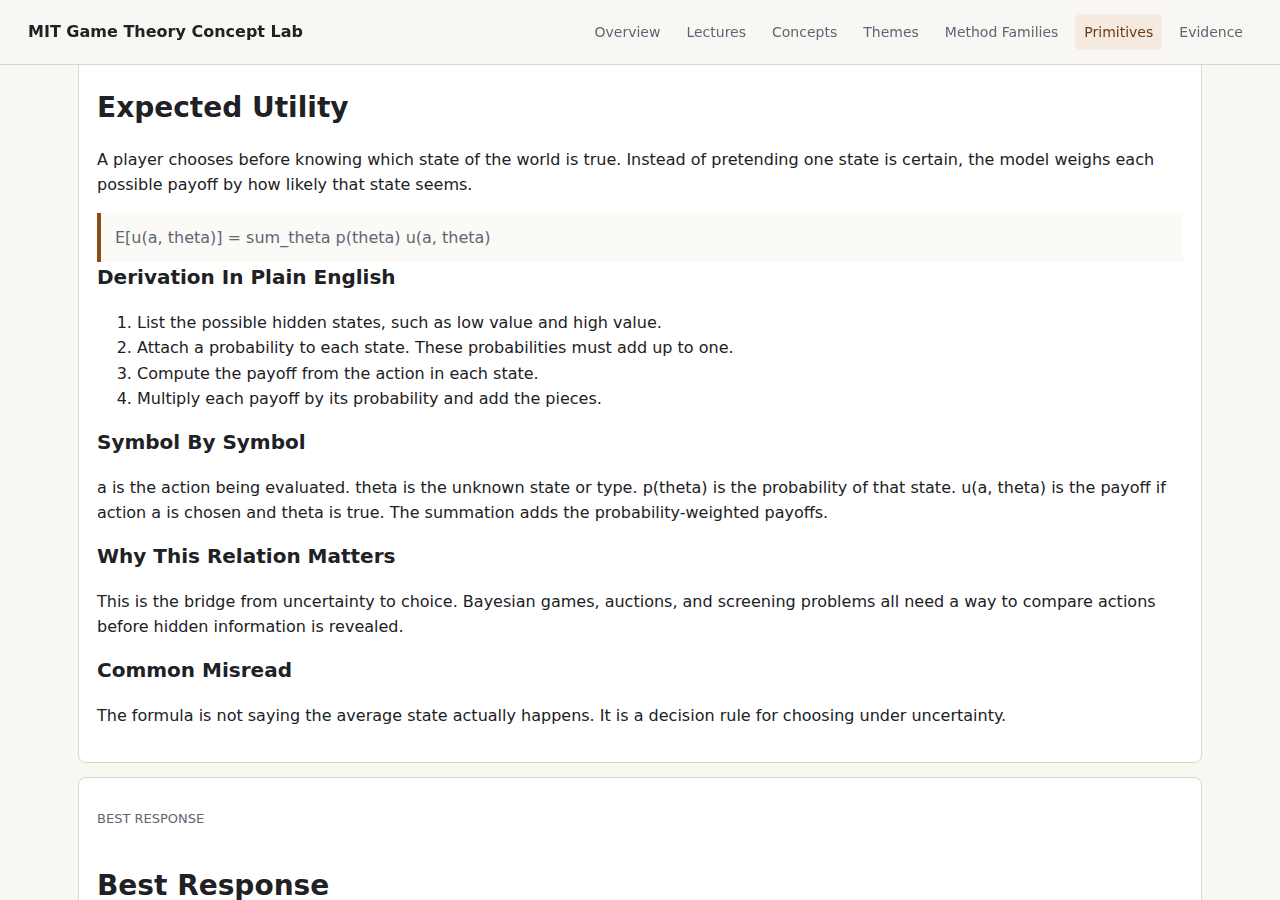
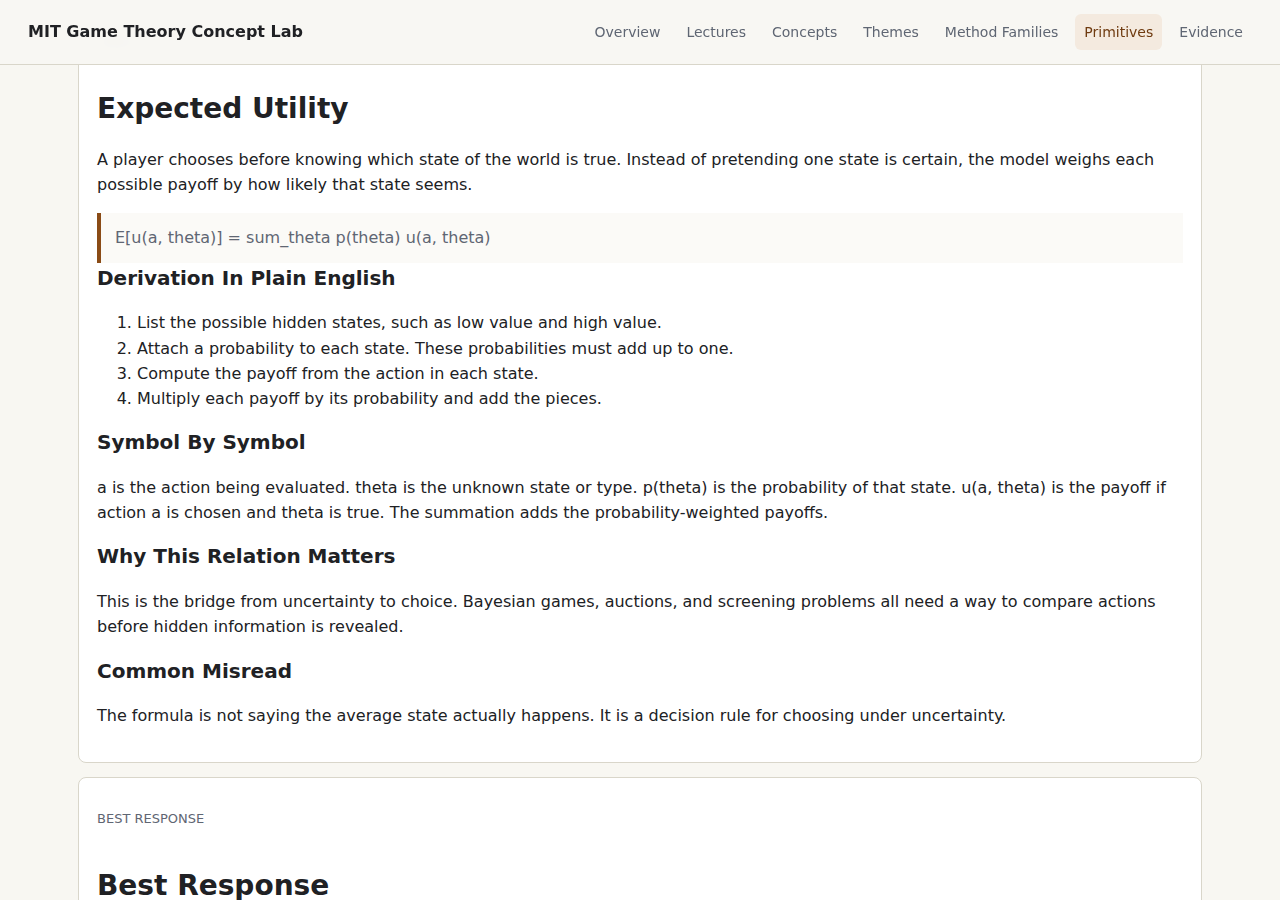
Link MIT primitives back to concepts

diff --git a/site/primitives.html b/site/primitives.html
@@ -21,6 +21,7 @@
   <h3>Plain-Language Principle</h3><p>Preference is the course’s way of saying that a person can compare outcomes before any strategic machinery starts. The primitive matters because a game cannot explain choice unless there is some stable sense in which one outcome is better for that player than another.</p>
   <h3>Symbol By Symbol</h3><p>x and y are possible outcomes; u assigns each outcome a number; the larger number records the option the person ranks higher.</p>
   <h3>Where It Appears</h3><p>Preferences appear first in the opening choice lecture, then reappear whenever payoffs, utilities, outside options, bidder values, or expected utilities are used as inputs to strategic reasoning.</p>
+  <h3>Concept Pages Using This Primitive</h3><p class="chips"><a class="chip" href="concepts/preferences.html">Preferences</a><a class="chip" href="concepts/utility.html">Utility</a><a class="chip" href="concepts/expected_utility.html">Expected Utility</a></p>
   <h3>Why Misuse Breaks The Model</h3><p>The common misuse is treating the utility representation as a literal psychological ruler. In this course, different numerical representations can describe the same ordering unless uncertainty or expected utility requires stronger comparisons.</p>
 </article><article class="wide-card" id="payoff_mapping">
   <h2>Payoff Mapping</h2>
@@ -32,6 +33,7 @@
   <h3>Plain-Language Principle</h3><p>Payoff mapping says that one person’s result is produced by the whole situation, not by that person’s action alone. A game table or tree is a compact machine that turns everyone’s choices into each player’s consequence.</p>
   <h3>Symbol By Symbol</h3><p>i is one player; a_i is that player&#x27;s action; a_-i means everyone else&#x27;s actions; u_i is the payoff assigned to the whole action profile.</p>
   <h3>Where It Appears</h3><p>Payoff mapping appears in strategic-form games, extensive-form games, bargaining, ad auctions, and any lecture that asks whether a deviation changes a player’s payoff.</p>
+  <h3>Concept Pages Using This Primitive</h3><p class="chips"><a class="chip" href="concepts/strategic_form_games.html">Strategic Form Games</a><a class="chip" href="concepts/bargaining.html">Bargaining</a><a class="chip" href="concepts/imperfect_competition.html">Imperfect Competition</a><a class="chip" href="concepts/ad_auctions.html">Ad Auctions</a></p>
   <h3>Why Misuse Breaks The Model</h3><p>A payoff map can smuggle in the conclusion if the modeler omits costs, outside options, information, or future consequences. The table is only as honest as the situation it represents.</p>
 </article><article class="wide-card" id="best_response">
   <h2>Best Response</h2>
@@ -43,6 +45,7 @@
   <h3>Plain-Language Principle</h3><p>Best response is the one-player optimization step inside game theory, but in everyday words it means: given what I think the others are doing, what should I do?</p>
   <h3>Symbol By Symbol</h3><p>argmax means choose the action a that makes player i&#x27;s payoff as large as possible when others choose a_-i.</p>
   <h3>Where It Appears</h3><p>Best response appears in rationalizability, Nash equilibrium, mixed strategies, minimax reasoning, Bayesian Nash equilibrium, and the deviation checks behind dynamic concepts.</p>
+  <h3>Concept Pages Using This Primitive</h3><p class="chips"><a class="chip" href="concepts/best_response.html">Best Response</a><a class="chip" href="concepts/minimax.html">Minimax</a><a class="chip" href="concepts/imperfect_competition.html">Imperfect Competition</a></p>
   <h3>Why Misuse Breaks The Model</h3><p>The misuse is naming a best response without naming the belief, opponent action, or information condition. That hides the actual assumption doing the work.</p>
 </article><article class="wide-card" id="mutual_consistency">
   <h2>Mutual Consistency</h2>
@@ -54,6 +57,7 @@
   <h3>Plain-Language Principle</h3><p>Mutual consistency turns a collection of individual choices into a stable strategic prediction. Everyone’s plan has to make sense given everyone else’s plan.</p>
   <h3>Symbol By Symbol</h3><p>For each player i, their chosen action a_i must belong to the set of best responses against the other players&#x27; actions.</p>
   <h3>Where It Appears</h3><p>Mutual consistency appears in Nash equilibrium, mixed strategies, zero-sum games, subgame perfection, infinitely repeated games, folk theorem logic, and Bayesian Nash equilibrium.</p>
+  <h3>Concept Pages Using This Primitive</h3><p class="chips"><a class="chip" href="concepts/nash_equilibrium.html">Nash Equilibrium</a><a class="chip" href="concepts/mixed_strategies.html">Mixed Strategies</a><a class="chip" href="concepts/zero_sum_games.html">Zero-Sum Games</a><a class="chip" href="concepts/subgame_perfection.html">Subgame-Perfect Nash Equilibrium</a><a class="chip" href="concepts/folk_theorem.html">Folk Theorem</a><a class="chip" href="concepts/bayesian_nash_equilibrium.html">Bayesian Nash Equilibrium</a></p>
   <h3>Why Misuse Breaks The Model</h3><p>The misuse is reading equilibrium as good, fair, optimal for society, or morally desirable. It only says that unilateral deviation is not profitable under the modeled conditions.</p>
 </article><article class="wide-card" id="pruning">
   <h2>Pruning</h2>
@@ -65,6 +69,7 @@
   <h3>Plain-Language Principle</h3><p>Pruning removes actions that cannot be justified before solving the whole game. It is the mathematical version of clearing away choices that are never worth taking.</p>
   <h3>Symbol By Symbol</h3><p>The inequality checks every possible action by others; dominance means one strategy is never worse and sometimes better.</p>
   <h3>Where It Appears</h3><p>Pruning appears in dominance, iterated deletion, rationalizability, and as background for equilibrium reasoning because eliminated strategies cannot be serious best responses.</p>
+  <h3>Concept Pages Using This Primitive</h3><p class="chips"><a class="chip" href="concepts/dominance.html">Dominance</a><a class="chip" href="concepts/iterated_deletion.html">Iterated Deletion</a></p>
   <h3>Why Misuse Breaks The Model</h3><p>The misuse is deleting too aggressively, especially with weak dominance or when beliefs matter. A deletion rule can change the remaining game, so the strength and order of the rule must be explicit.</p>
 </article><article class="wide-card" id="backward_recursion">
   <h2>Backward Recursion</h2>
@@ -76,6 +81,7 @@
   <h3>Plain-Language Principle</h3><p>Backward recursion says that later incentives determine earlier meaning. To understand a promise or threat now, solve what the player will want when the promised moment arrives.</p>
   <h3>Symbol By Symbol</h3><p>V is continuation value; at each decision point the player chooses the next branch with the best continuation value.</p>
   <h3>Where It Appears</h3><p>Backward recursion appears in extensive-form games, backward induction, subgame perfection, one-shot deviation, bargaining, finitely repeated games, and perfect Bayesian equilibrium.</p>
+  <h3>Concept Pages Using This Primitive</h3><p class="chips"><a class="chip" href="concepts/extensive_form_games.html">Extensive Form Games</a><a class="chip" href="concepts/backward_induction.html">Backward Induction</a><a class="chip" href="concepts/subgame_perfection.html">Subgame-Perfect Nash Equilibrium</a><a class="chip" href="concepts/one_shot_deviation.html">One-Shot Deviation Principle</a><a class="chip" href="concepts/finitely_repeated_games.html">Finitely Repeated Games</a><a class="chip" href="concepts/perfect_bayesian_equilibrium.html">Perfect Bayesian Equilibrium</a></p>
   <h3>Why Misuse Breaks The Model</h3><p>The misuse is solving backward through a tree that leaves out information, uncertainty, or renegotiation. Backward logic is powerful only after the tree is an honest representation.</p>
 </article><article class="wide-card" id="discounting">
   <h2>Discounting</h2>
@@ -87,6 +93,7 @@
   <h3>Plain-Language Principle</h3><p>Discounting is the course’s way to compare now with later. Future payoffs matter, but the discount factor says how much weight the future has relative to the present.</p>
   <h3>Symbol By Symbol</h3><p>u_t is payoff in period t; delta between 0 and 1 controls how strongly the future matters.</p>
   <h3>Where It Appears</h3><p>Discounting appears in bargaining, infinitely repeated games, folk theorem arguments, implicit cartels, and the repeated-game parts of cooperation.</p>
+  <h3>Concept Pages Using This Primitive</h3><p class="chips"><a class="chip" href="concepts/bargaining.html">Bargaining</a><a class="chip" href="concepts/infinitely_repeated_games.html">Infinitely Repeated Games</a><a class="chip" href="concepts/folk_theorem.html">Folk Theorem</a><a class="chip" href="concepts/implicit_cartels.html">Implicit Cartels</a></p>
   <h3>Why Misuse Breaks The Model</h3><p>The misuse is treating future discipline as automatic. If players are impatient, cannot observe cheating, or know the game ends, the discounting inequality can fail.</p>
 </article><article class="wide-card" id="belief">
   <h2>Belief</h2>
@@ -98,6 +105,7 @@
   <h3>Plain-Language Principle</h3><p>Belief is a probability story about hidden facts. It lets a player choose while admitting that they do not know the opponent’s type, value, history, or information.</p>
   <h3>Symbol By Symbol</h3><p>theta is the unknown type or state; p(theta) is its probability; expected utility averages payoffs across possibilities.</p>
   <h3>Where It Appears</h3><p>Belief appears in expected utility, rationalizability, mixed strategies, Bayesian games, types and beliefs, Bayesian Nash equilibrium, auctions, PBE, signaling, and cheap talk.</p>
+  <h3>Concept Pages Using This Primitive</h3><p class="chips"><a class="chip" href="concepts/expected_utility.html">Expected Utility</a><a class="chip" href="concepts/rationalizability.html">Rationalizability</a><a class="chip" href="concepts/mixed_strategies.html">Mixed Strategies</a><a class="chip" href="concepts/bayesian_games.html">Bayesian Games</a><a class="chip" href="concepts/types_and_beliefs.html">Types And Beliefs</a><a class="chip" href="concepts/bayesian_nash_equilibrium.html">Bayesian Nash Equilibrium</a><a class="chip" href="concepts/screening_and_adverse_selection.html">Screening And Adverse Selection</a><a class="chip" href="concepts/auctions.html">Auctions</a><a class="chip" href="concepts/perfect_bayesian_equilibrium.html">Perfect Bayesian Equilibrium</a><a class="chip" href="concepts/signaling.html">Signaling</a><a class="chip" href="concepts/cheap_talk.html">Cheap Talk</a></p>
   <h3>Why Misuse Breaks The Model</h3><p>The misuse is using beliefs as arbitrary story glue. In dynamic games especially, beliefs must be tied to information, Bayes rule where possible, and the incentives that produced observed behavior.</p>
 </article><article class="wide-card" id="incentive_compatibility">
   <h2>Incentive Compatibility</h2>
@@ -109,6 +117,7 @@
   <h3>Plain-Language Principle</h3><p>Incentive compatibility asks whether the rule makes desired behavior privately worthwhile. A mechanism cannot simply request honesty, cooperation, or truthful bidding; it must make those actions attractive.</p>
   <h3>Symbol By Symbol</h3><p>The inequality says a person should not gain by replacing the truthful action with another report.</p>
   <h3>Where It Appears</h3><p>Incentive compatibility appears in implicit cartels, auctions, revenue equivalence, ad auctions, signaling, and cheap talk, with related logic in folk-theorem punishment constraints.</p>
+  <h3>Concept Pages Using This Primitive</h3><p class="chips"><a class="chip" href="concepts/implicit_cartels.html">Implicit Cartels</a><a class="chip" href="concepts/screening_and_adverse_selection.html">Screening And Adverse Selection</a><a class="chip" href="concepts/auctions.html">Auctions</a><a class="chip" href="concepts/revenue_equivalence.html">Revenue Equivalence</a><a class="chip" href="concepts/ad_auctions.html">Ad Auctions</a><a class="chip" href="concepts/signaling.html">Signaling</a><a class="chip" href="concepts/cheap_talk.html">Cheap Talk</a></p>
   <h3>Why Misuse Breaks The Model</h3><p>The misuse is designing by intention rather than incentives. If misreporting, deviation, or manipulation pays more, the mechanism fails no matter how elegant the rule looks.</p>
 </article><article class="wide-card" id="knowledge_recursion">
   <h2>Knowledge Recursion</h2>
@@ -120,6 +129,7 @@
   <h3>Plain-Language Principle</h3><p>Knowledge recursion captures the difference between a fact being true, people knowing it, and people knowing that others know it. Coordination often needs the higher levels, not just the first one.</p>
   <h3>Symbol By Symbol</h3><p>E is the event; K means known by the players; repeated K&#x27;s represent higher-order knowledge.</p>
   <h3>Where It Appears</h3><p>Knowledge recursion appears most directly in common knowledge, and indirectly in iterated deletion, rationalizability, equilibrium selection, and communication because players reason about others’ reasoning.</p>
+  <h3>Concept Pages Using This Primitive</h3><p class="chips"><a class="chip" href="concepts/common_knowledge.html">Common Knowledge</a></p>
   <h3>Why Misuse Breaks The Model</h3><p>The misuse is treating widespread knowledge as common knowledge. If players are unsure whether others saw the same fact, the recursive chain can break and coordination may fail.</p>
 </article><section class="page-head"><h1>Derivation Cards</h1><p>Core equations unpacked as plain-language operations.</p></section><article class="wide-card derivation-card" id="dominance_inequality">
   <p class="eyebrow">pruning</p>

diff --git a/scripts/audit_editorial_quality.py b/scripts/audit_editorial_quality.py
@@ -176,6 +176,17 @@ def main() -> int:
     theme_words = [words(" ".join(str(t.get(f, "")) for f in ["big_picture", "why_this_theme_matters", "cross_course_argument", "mathematical_spine", "where_analogy_breaks", "lecture_evidence_chain"])) for t in themes]
     subtheme_words = [words(" ".join(str(s.get(f, "")) for f in ["everyday_problem", "hidden_principle", "mathematical_lever", "why_it_matters", "first_principles_walkthrough", "cross_links_and_limits"])) for s in subthemes]
     primitive_words = [words(" ".join(str(p.get(f, "")) for f in ["everyday_setup", "plain_language_principle", "formal_object", "symbol_explanation", "course_appearances", "why_it_matters", "misuse_warning"])) for p in primitives]
+    primitives_html = (SITE / "primitives.html").read_text(encoding="utf-8") if (SITE / "primitives.html").exists() else ""
+    primitive_backlinks = 0
+    for primitive in primitives:
+        linked = [
+            concept_id
+            for concept_id in primitive.get("concepts_in_atlas", [])
+            if f'href="concepts/{concept_id}.html"' in primitives_html
+        ]
+        primitive_backlinks += len(linked)
+        if len(linked) != len(primitive.get("concepts_in_atlas", [])):
+            errors.append(f"primitive {primitive['id']} missing concept backlinks")
     derivation_words = [words(" ".join(str(d.get(f, "")) for f in ["everyday_setup", "equation", "symbol_by_symbol", "why_it_matters", "common_misread"]) + " " + " ".join(d.get("derivation_steps", []))) for d in derivations]
     family_words = [words(" ".join(str(f.get(k, "")) for k in ["family_problem", "first_principles_pattern", "mathematical_signature", "why_family_matters", "family_walkthrough", "where_analogy_breaks", "lecture_evidence_chain", "paper_family_treatment"])) for f in families]
     deep_evidence = [record for record in evidence if record.get("transcript_teaching_note") and record.get("evidence_boundary")]
@@ -273,6 +284,7 @@ def main() -> int:
         f"- Theme treatment words: min {min(theme_words)}, max {max(theme_words)}",
         f"- Subtheme treatment words: min {min(subtheme_words)}, max {max(subtheme_words)}",
         f"- Primitive treatment words: min {min(primitive_words)}, max {max(primitive_words)}",
+        f"- Primitive-to-concept backlinks: {primitive_backlinks}",
         f"- Derivation-card words: min {min(derivation_words) if derivation_words else 0}, max {max(derivation_words) if derivation_words else 0}",
         f"- Concept pages with derivation links: {concept_pages_with_derivations}",
         f"- Concept equation note words: min {min(equation_note_words) if equation_note_words else 0}, max {max(equation_note_words) if equation_note_words else 0}",

diff --git a/scripts/validate_site.py b/scripts/validate_site.py
@@ -24,6 +24,7 @@ def main() -> int:
     evidence = json.loads((ROOT / "analysis/evidence/evidence-ledger.json").read_text(encoding="utf-8"))
     lectures = json.loads((ROOT / "analysis/lectures/lecture-path.json").read_text(encoding="utf-8"))
     supplemental = json.loads((ROOT / "analysis/lectures/lecture-evidence.json").read_text(encoding="utf-8"))
+    primitives = json.loads((ROOT / "analysis/throughlines/primitives.json").read_text(encoding="utf-8"))
     derivations = json.loads((ROOT / "analysis/throughlines/derivations.json").read_text(encoding="utf-8"))
     equation_notes = json.loads((ROOT / "analysis/editorial-overrides/equation-walkthrough-notes.json").read_text(encoding="utf-8"))
     worked_examples = json.loads((ROOT / "analysis/editorial-overrides/worked-example-cards.json").read_text(encoding="utf-8"))
@@ -75,6 +76,16 @@ def main() -> int:
         if f'id="{ev["id"]}"' not in evidence_html:
             errors.append(f"missing evidence anchor: {ev['id']}")
     primitives_html = (SITE / "primitives.html").read_text(encoding="utf-8") if (SITE / "primitives.html").exists() else ""
+    for primitive in primitives:
+        if f'id="{primitive["id"]}"' not in primitives_html:
+            errors.append(f"missing primitive anchor: {primitive['id']}")
+        if "Concept Pages Using This Primitive" not in primitives_html:
+            errors.append("primitives page missing concept backlink heading")
+        for concept_id in primitive.get("concepts_in_atlas", []):
+            if concept_id not in concept_by_id:
+                errors.append(f"primitive {primitive['id']} references missing concept: {concept_id}")
+            elif f'href="concepts/{concept_id}.html"' not in primitives_html:
+                errors.append(f"primitive {primitive['id']} missing concept backlink: {concept_id}")
     for derivation in derivations:
         if f'id="{derivation["id"]}"' not in primitives_html:
             errors.append(f"missing derivation anchor: {derivation['id']}")

diff --git a/scripts/build_site.py b/scripts/build_site.py
@@ -379,9 +379,14 @@ def derivation_card(derivation: dict[str, Any]) -> str:
 </article>"""
 
 
-def build_primitives(primitives, derivations):
+def build_primitives(primitives, derivations, concept_by_id):
     cards = []
     for primitive in primitives:
+        concept_links = "".join(
+            f'<a class="chip" href="concepts/{esc(concept_id)}.html">{esc(concept_by_id[concept_id]["name"])}</a>'
+            for concept_id in primitive.get("concepts_in_atlas", [])
+            if concept_id in concept_by_id
+        )
         diagram = flow("Equation Breakdown", [
             ("Why Needed", primitive["why_it_exists"]),
             ("Formal Object", primitive["formal_object"]),
@@ -395,6 +400,7 @@ def build_primitives(primitives, derivations):
   <h3>Plain-Language Principle</h3><p>{esc(primitive.get("plain_language_principle", primitive["why_it_exists"]))}</p>
   <h3>Symbol By Symbol</h3><p>{esc(primitive["symbol_explanation"])}</p>
   <h3>Where It Appears</h3><p>{esc(primitive["course_appearances"])}</p>
+  <h3>Concept Pages Using This Primitive</h3><p class="chips">{concept_links or '<span class="chip muted">No linked concept pages yet</span>'}</p>
   <h3>Why Misuse Breaks The Model</h3><p>{esc(primitive.get("misuse_warning", primitive["misuse_failure"]))}</p>
 </article>""")
     derivation_section = '<section class="page-head"><h1>Derivation Cards</h1><p>Core equations unpacked as plain-language operations.</p></section>' + "".join(derivation_card(d) for d in derivations)
@@ -450,7 +456,7 @@ def main():
     build_lectures(lectures, ev_by_id, concept_by_id, deriv_by_id)
     build_concepts(concepts, evidence, deriv_by_id, equation_notes, worked_examples)
     build_themes(themes, subthemes, concepts)
-    build_primitives(primitives, derivations)
+    build_primitives(primitives, derivations, concept_by_id)
     build_families(families)
     build_evidence(evidence)
     build_assets()

diff --git a/analysis/audits/site-render-report.md b/analysis/audits/site-render-report.md
@@ -16,14 +16,14 @@ Playwright render audit for representative desktop and mobile pages.
 - desktop-nash-equilibrium: `concepts/nash_equilibrium.html`, viewport 1280,900, captured 1280x900, 153220 bytes
 - desktop-auctions: `concepts/auctions.html`, viewport 1280,900, captured 1280x900, 136830 bytes
 - desktop-primitives: `primitives.html`, viewport 1280,900, captured 1280x900, 117248 bytes
-- desktop-derivation-expected-utility: `primitives.html#expected_utility`, viewport 1280,900, captured 1280x900, 117640 bytes
+- desktop-derivation-expected-utility: `primitives.html#expected_utility`, viewport 1280,900, captured 1280x900, 117635 bytes
 - mobile-index: `index.html`, viewport 390,844, captured 390x844, 71375 bytes
 - mobile-lectures: `lectures.html`, viewport 390,844, captured 390x844, 57304 bytes
 - mobile-lecture-23-detail: `lectures/lecture-23.html`, viewport 390,844, captured 390x844, 75214 bytes
 - mobile-screening-adverse-selection: `concepts/screening_and_adverse_selection.html`, viewport 390,844, captured 390x844, 77224 bytes
 - mobile-nash-equilibrium: `concepts/nash_equilibrium.html`, viewport 390,844, captured 390x844, 73558 bytes
 - mobile-primitives: `primitives.html`, viewport 390,844, captured 390x844, 58458 bytes
-- mobile-derivation-bayes-rule: `primitives.html#bayes_rule`, viewport 390,844, captured 390x844, 73004 bytes
+- mobile-derivation-bayes-rule: `primitives.html#bayes_rule`, viewport 390,844, captured 390x844, 72792 bytes
 
 ## Errors
 

diff --git a/analysis/audits/editorial-quality-report.md b/analysis/audits/editorial-quality-report.md
@@ -10,6 +10,7 @@ This static audit checks explanatory depth, required teaching sections, evidence
 - Theme treatment words: min 196, max 280
 - Subtheme treatment words: min 189, max 238
 - Primitive treatment words: min 155, max 207
+- Primitive-to-concept backlinks: 47
 - Derivation-card words: min 132, max 259
 - Concept pages with derivation links: 30
 - Concept equation note words: min 30, max 37
